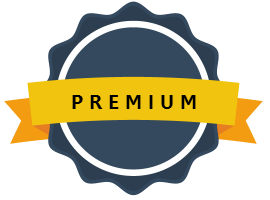
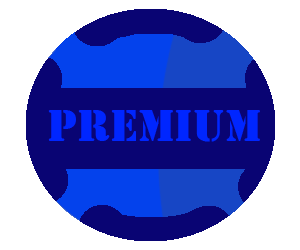
Changes
Replace images with my own, added basic plan page and added links to get to it.

diff --git a/basicplan.html b/basicplan.html
@@ -3,7 +3,7 @@
   <head>
     <meta charset="utf-8">
     <meta name="viewport" content="width=device-width, initial-scale=1">
-    <title>Geoserve | Domains</title>
+    <title>Geoserve | Premium Plan</title>
     <link href="https://cdn.jsdelivr.net/npm/bootstrap@5.3.0-alpha3/dist/css/bootstrap.min.css" rel="stylesheet" integrity="sha384-KK94CHFLLe+nY2dmCWGMq91rCGa5gtU4mk92HdvYe+M/SXH301p5ILy+dN9+nJOZ" crossorigin="anonymous">
     <link rel="stylesheet" href="style.css">
   </head>
@@ -108,73 +108,24 @@
           </div>
         </div>
       </nav>
-      
-        <div class="container py-5 overflow-auto" style="height:100%;">
-          <div class="row vertical-scrollable"></div>
-          <div class="row py-5 align-items-center">
-            <div class="col-12 text-center" style="background-color:rgba(0, 0, 0, 0.60); border-radius: 20px;">
-              <h5 class="display-4 mb-4 font-weight-bold text-white-50 mt-5">Welcome To Geoserve</h5>
-              <!-- <p class="h5 col-md-10 mx-auto pb-5 mb-5 text-white-50 aa">Placeholder Text</p>        -->
-              <!-- <div class="p-4 rounded shadow-lg border border-light" style="background-color:rgba(28, 9, 80, 0.35)">
-            <form>
-        <div class="form-row">
-          <div class="col-20">
-            <input type="text" input type="text" required minlength="10" required class="form-control form-control-lg shadow-sm" placeholder="https://www.getyourdomain.net/">
-          </div>
-          <div class="col-15">
-             <button class="btn btn-danger btn-block shadow-lg" type="submit"><span class="d-md-inline-block d-none mr-2">Submit</span> <i class="lni lni-arrow-right"></i></button>
-          </div>
-        </div>
-      </form>
-              </div>
-            </div>      
-          </div>
-        </div>
-      </div> -->
 
-<!-- HTML CSS-->
-          <!-- Add the product grid section -->
-          <link rel="stylesheet" type="text/css" href="styles.css" />
-    <div class="container py-5">
-      <h2 class="text-center mb-4 font-weight-bold text-white-50 mt-5">We Recommend This Plan To Start Off With</h2>
-      <div class="product-grid">
-        <!-- <div class="product-item">
-          <img src="images/basicPlan.png" alt="Product 1">
-          <h4>Basic Plan</h4>
-          <p>Get the bare minimum features that we offer.</p>
-        </div> -->
-        <div class="centered">
-        <div class="product-item"> <a class="navbar-brand font-weight-bold text-uppercase" href="premiumplan.html">
-          <img src="images/PremPlan.png" alt="Product 2">
-          <h4>Premium Plan</h4>
-          <p>Get Access To All The Features We Offer</p>
-          <p>$19.99 / Month</p>
-          </a>
+      <html lang="en">
+
+      <!-- Product Page Content -->
+      <div class="container mt-5 product-container">
+        <div class="row">
+          <div class="col-md-6">
+            <img src="images/basicPlan.png" alt="Product Image" class="img-fluid">
+          </div>
+          <div class="col-md-6">
+            <h2>Basic Plan</h2>
+            <p>Get the bare minimum features that we offer.</p>
+            <p>Basic Domains</p>
+            <p>Limit of 5 sub-pages</p>
+            <h3>Price: $8.99</h3>
+            <button class="btn btn-primary">Add to Cart</button>
+          </div>
         </div>
-        </div>
-        <!-- <div class="product-item">
-          <img src="images/busplan.png" alt="Product 3">
-          <h4>Product 3</h4>
-          <p>Lorem ipsum dolor sit amet, consectetur adipiscing elit.</p>
-        </div> -->
-        <!-- Add more product items as needed -->
       </div>
-    </div>
-
-    
-
-    <!-- your existing code -->
-
-    <script>
-      // your existing JavaScript
-    </script>
       
-       
-      <!-- Optional JavaScript --> 
-      <!-- jQuery first, then Popper.js, then Bootstrap JS --> 
-       <script src="https://code.jquery.com/jquery-3.5.1.slim.min.js" ></script>
-       <script src="https://cdn.jsdelivr.net/npm/popper.js@1.16.0/dist/umd/popper.min.js" ></script>
-       <script src="https://stackpath.bootstrapcdn.com/bootstrap/4.5.0/js/bootstrap.min.js" ></script>
-  </body>
-  
-</html>
+      

diff --git a/plans.html b/plans.html
@@ -138,7 +138,7 @@
     <div class="container py-5">
       <!-- <h2 class="text-center mb-4">Plans</h2> -->
       <div class="product-grid">
-        <div class="product-item"> <a class="navbar-brand font-weight-bold text-uppercase" href="#">
+        <div class="product-item"> <a class="navbar-brand font-weight-bold text-uppercase" href="basicplan.html">
           <img src="images/basicPlan.png" alt="Product 1">
           <h4>Basic Plan</h4>
           <p>Get the bare minimum features that we offer.</p>
